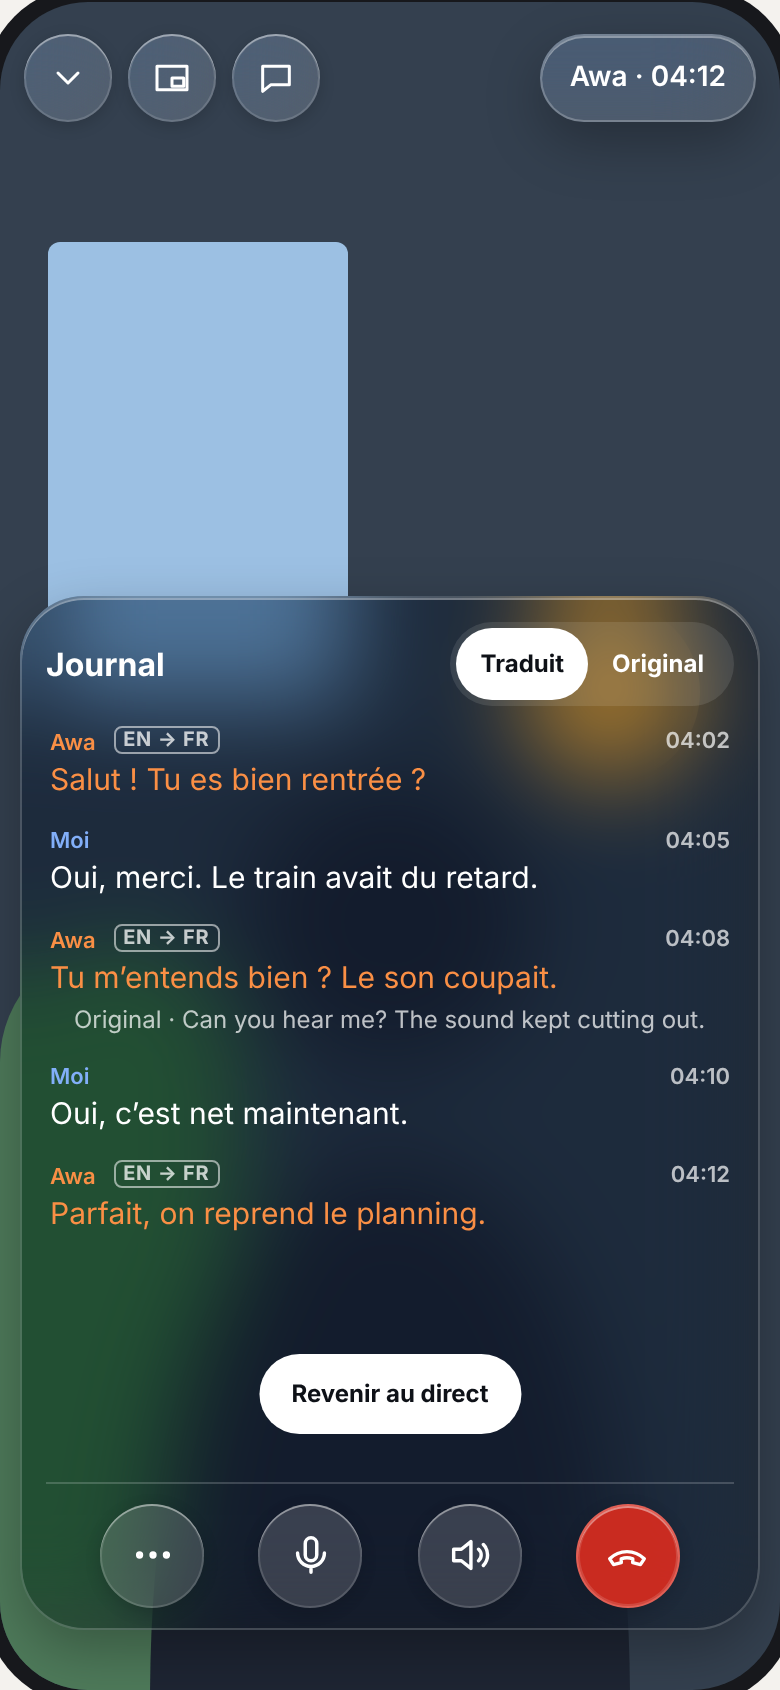
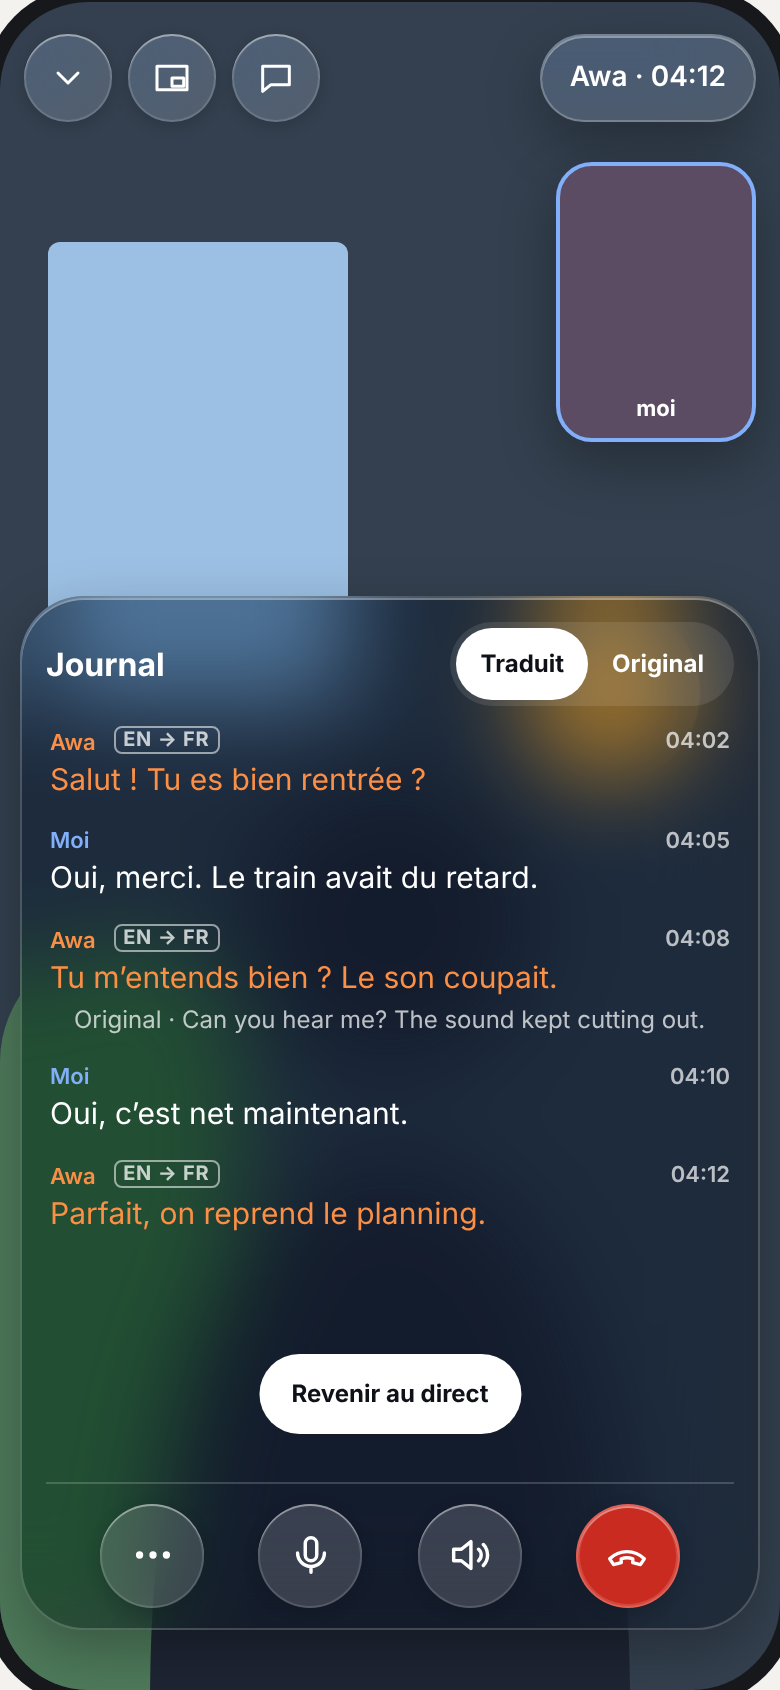
docs(appels): ma vignette reste affichée quand le journal est ouvert dans la pilule (P6)
Réponse du porteur du 2026-11-10 à la question laissée par #17343.
Loi 7 et vue P6, capture régénérée par capture.mjs.

Refs #17329, #17343

Claude-Session: https://claude.ai/code/session_015SWXf7WvNYyQX5o6rHgc69

Changed region(s): [[0.7077, 0.0923, 0.9846, 0.2769]]

diff --git a/docs/product/appels-vue-finale/planche.html b/docs/product/appels-vue-finale/planche.html
@@ -136,7 +136,7 @@ const S=[
 {id:'P3',t:'Sous-titres : l’original d’abord',d:'La phrase part tout de suite dans sa langue d’origine, à l’encre du thème, le pseudo à la couleur d’Awa, étiquetée EN ; trois points disent qu’une traduction arrive. Une phrase non finale reste pâle. Les sous-titres vivent DANS la pilule, au-dessus de sa rangée.',html:phone(scene()+head('Awa · 04:12')+self()+caps([T('moi','Oui, c’est net maintenant.'),T('awa','Can you hear me? The sound kept cutting out.',{tag:'EN',waiting:true}),T('awa','Perfect, so let’s get back to…',{pending:true,tag:'EN'})],{foot:'EN · traduction en cours'}))},
 {id:'P4',t:'Sous-titres : la traduction rejoint la ligne',d:'La traduction remplace l’original DANS LA MÊME LIGNE, comme un message, avec la même couleur. L’étiquette devient EN → FR. Ma phrase n’est jamais traduite pour moi.',html:phone(scene()+head('Awa · 04:12')+self()+caps([T('moi','Oui, c’est net maintenant.'),T('awa','Tu m’entends bien ? Le son coupait tout à l’heure.',{tag:'EN → FR'}),T('awa','Parfait, alors on reprend le…',{pending:true,tag:'EN → FR'})]))},
 {id:'P5',t:'Toucher une phrase : l’original',d:'La phrase touchée déplie son original dessous, en encre secondaire. Retoucher le replie.',html:phone(scene()+head('Awa · 04:12')+self()+caps([T('awa','Tu m’entends bien ? Le son coupait tout à l’heure.',{tag:'EN → FR',orig:'Can you hear me? The sound kept cutting out earlier.'}),T('moi','Oui, c’est net maintenant.')]))},
-{id:'P6',t:'Journal pendant l’appel',d:'« Journal » ouvre TOUT l’appel, rien de tronqué : qui (sa couleur), quand, la phrase servie, l’original sous la phrase qu’on touche. Il s’ouvre DANS la pilule, à la place des sous-titres, et défile librement ; « Revenir au direct » quand on a remonté.',html:phone(scene()+head('Awa · 04:12')+journalPill(J,{live:true}))},
+{id:'P6',t:'Journal pendant l’appel',d:'« Journal » ouvre TOUT l’appel, rien de tronqué : qui (sa couleur), quand, la phrase servie, l’original sous la phrase qu’on touche. Il s’ouvre DANS la pilule, à la place des sous-titres, et défile librement ; « Revenir au direct » quand on a remonté.',html:phone(scene()+head('Awa · 04:12')+self()+journalPill(J,{live:true}))},
 {id:'P7',t:'Micro coupé',d:'Le micro barré passe en disque blanc. Micro coupé = ma parole n’est plus transcrite (#8475).',html:phone(scene()+head('Awa · 04:12')+self()+pill({micOff:true}))},
 {id:'P8',t:'Effets de ma caméra',d:'« Effets » met MA caméra en plein écran, les autres en bandeau, les sous-titres restent. Onglets Visage · Couleur, carrousel (le choix à pleine taille, les voisins plus petits), puis Quitter (rend mon image d’avant) · Réglages · Valider. Pas d’effets de voix (#8050). Un mode libère l’écran : l’en-tête se masque (#8578).',html:phone(`<div style="position:absolute;inset:0;background:#445B4F"></div><svg style="position:absolute;left:75px;top:260px" width="240" height="600" viewBox="0 0 240 600" aria-hidden="true"><circle cx="120" cy="110" r="72" fill="#2c3b33"/><path d="M0 600c0-200 50-330 120-330s120 130 120 330z" fill="#2c3b33"/></svg>`+`<div style="position:absolute;right:12px;top:76px;display:flex;flex-direction:column;gap:6px"><div class="tile" style="width:64px;height:86px;padding:4px;background:#6B5A48;border-color:var(--awa)"><span class="name glass" style="font-size:10px;padding:2px 6px">Awa</span></div></div><div style="position:absolute;left:0;right:0;bottom:200px;display:flex;justify-content:center;gap:22px;font-size:14px;font-weight:700"><span>Visage</span><span style="opacity:.55">Couleur</span></div><div style="position:absolute;left:0;right:0;bottom:104px;display:flex;justify-content:center;align-items:center;gap:12px">${['Aucun','Lissage','Crapaud','Ange','Démon'].map((n,i)=>`<div style="display:flex;flex-direction:column;align-items:center;gap:6px;transform:scale(${i===1?1:.78});opacity:${i===1?1:.6}"><span style="width:64px;height:64px;border-radius:50%;background:${['#445B4F','#7a8f84','#5d7d4e','#c9b37a','#8a4e4e'][i]};${i===1?'box-shadow:0 0 0 3px #fff;':''}"></span><span style="font-size:11px;font-weight:600">${n}</span></div>`).join('')}</div><div class="glass" style="position:absolute;left:16px;right:16px;bottom:30px;height:60px;border-radius:30px;display:flex;justify-content:space-between;align-items:center;padding:0 8px"><span style="padding:0 14px;font-weight:700">Quitter</span>${B('effects','Réglages','soft')}<span style="height:44px;padding:0 18px;border-radius:22px;background:#fff;color:#0E1117;font-weight:700;display:flex;align-items:center">Valider</span></div>`)},
 {id:'P8b',t:'Effets : réglages',d:'« Réglages » remplace le carrousel par Luminosité et Flou du fond.',html:phone(`<div style="position:absolute;inset:0;background:#445B4F"></div><svg style="position:absolute;left:75px;top:260px" width="240" height="600" viewBox="0 0 240 600" aria-hidden="true"><circle cx="120" cy="110" r="72" fill="#2c3b33"/><path d="M0 600c0-200 50-330 120-330s120 130 120 330z" fill="#2c3b33"/></svg>`+`<div class="glass deep" style="position:absolute;left:16px;right:16px;bottom:104px;border-radius:24px;padding:14px 16px;display:flex;flex-direction:column;gap:14px"><label style="display:flex;flex-direction:column;gap:8px;font-size:13px;font-weight:600">Luminosité<span style="height:6px;border-radius:3px;background:linear-gradient(90deg,#fff 62%,rgba(255,255,255,.25) 62%)"></span></label><label style="display:flex;justify-content:space-between;align-items:center;font-size:13px;font-weight:600">Flou du fond<span style="width:50px;height:30px;border-radius:15px;background:#34C759;position:relative"><i style="position:absolute;right:3px;top:3px;width:24px;height:24px;border-radius:50%;background:#fff"></i></span></label></div><div class="glass" style="position:absolute;left:16px;right:16px;bottom:30px;height:60px;border-radius:30px;display:flex;justify-content:space-between;align-items:center;padding:0 8px"><span style="padding:0 14px;font-weight:700">Quitter</span>${B('effects','Réglages','on')}<span style="height:44px;padding:0 18px;border-radius:22px;background:#fff;color:#0E1117;font-weight:700;display:flex;align-items:center">Valider</span></div>`)},

diff --git a/docs/product/appels-vue-finale.md b/docs/product/appels-vue-finale.md
@@ -47,7 +47,7 @@
 7. **Le journal est FIDÈLE, pendant et après l'appel.**
    - C'est le MÊME journal avant et après la fin de l'appel : mêmes phrases, même ordre, mêmes couleurs, même descente du Prisme.
    - L'original : pendant l'appel, il se déplie sous la phrase qu'on touche, comme dans la bande ; après l'appel, il est sous chaque traduction (décision porteur du 2026-11-09, #17340).
-   - Pendant l'appel, il s'ouvre dans la pilule, au-dessus de la rangée de base, et y défile ; ouvrir les actions (…) le range (#17343). Sur un écran large (web), il se pose en colonne à droite (W1).
+   - Pendant l'appel, il s'ouvre dans la pilule, au-dessus de la rangée de base, et y défile ; ouvrir les actions (…) le range (#17343). Ma vignette garde sa place pendant qu'il est ouvert (porteur, 2026-11-10). Sur un écran large (web), il se pose en colonne à droite (W1).
    - Rien n'est tronqué, et une ligne dont la traduction arrive après la fin de la phrase est mise à jour sur place, pas dupliquée. Les règles de fusion sont web `mergeCaption`, iOS `CallTranscriptMergeRules`, Android `CallLiveJournal.merged`.
    - Après l'appel, il se déplie sous la bulle d'appel du fil et dans le détail de l'historique. Une bascule Traduit / Original s'applique à tout l'appel.
    - Pendant l'appel :
